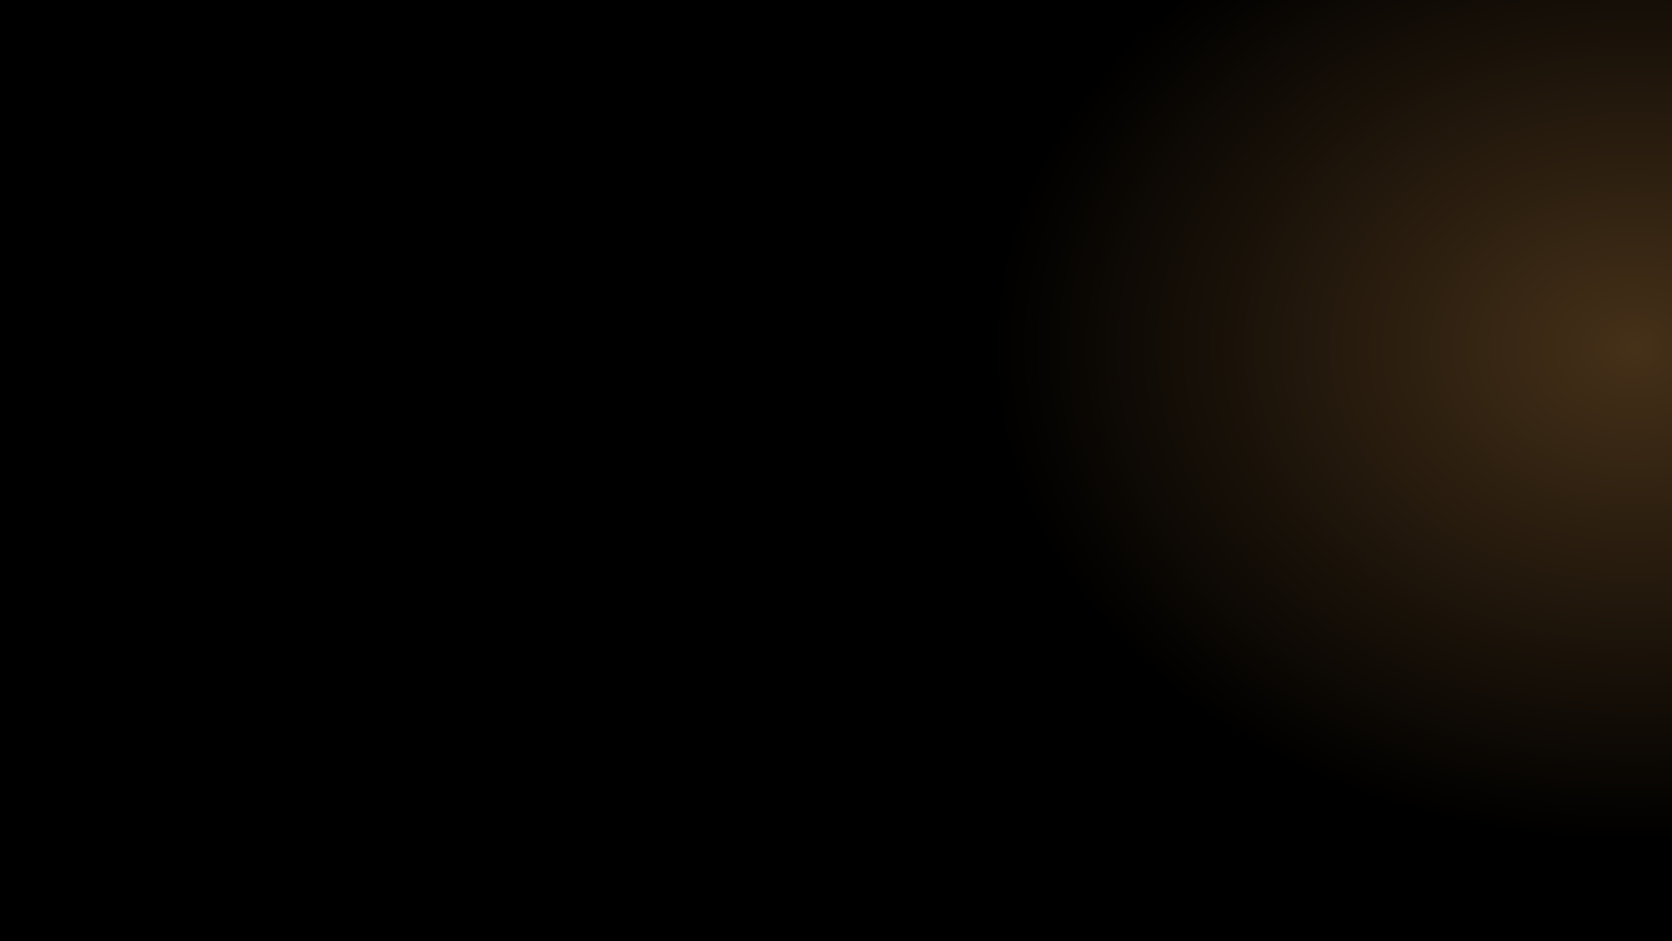
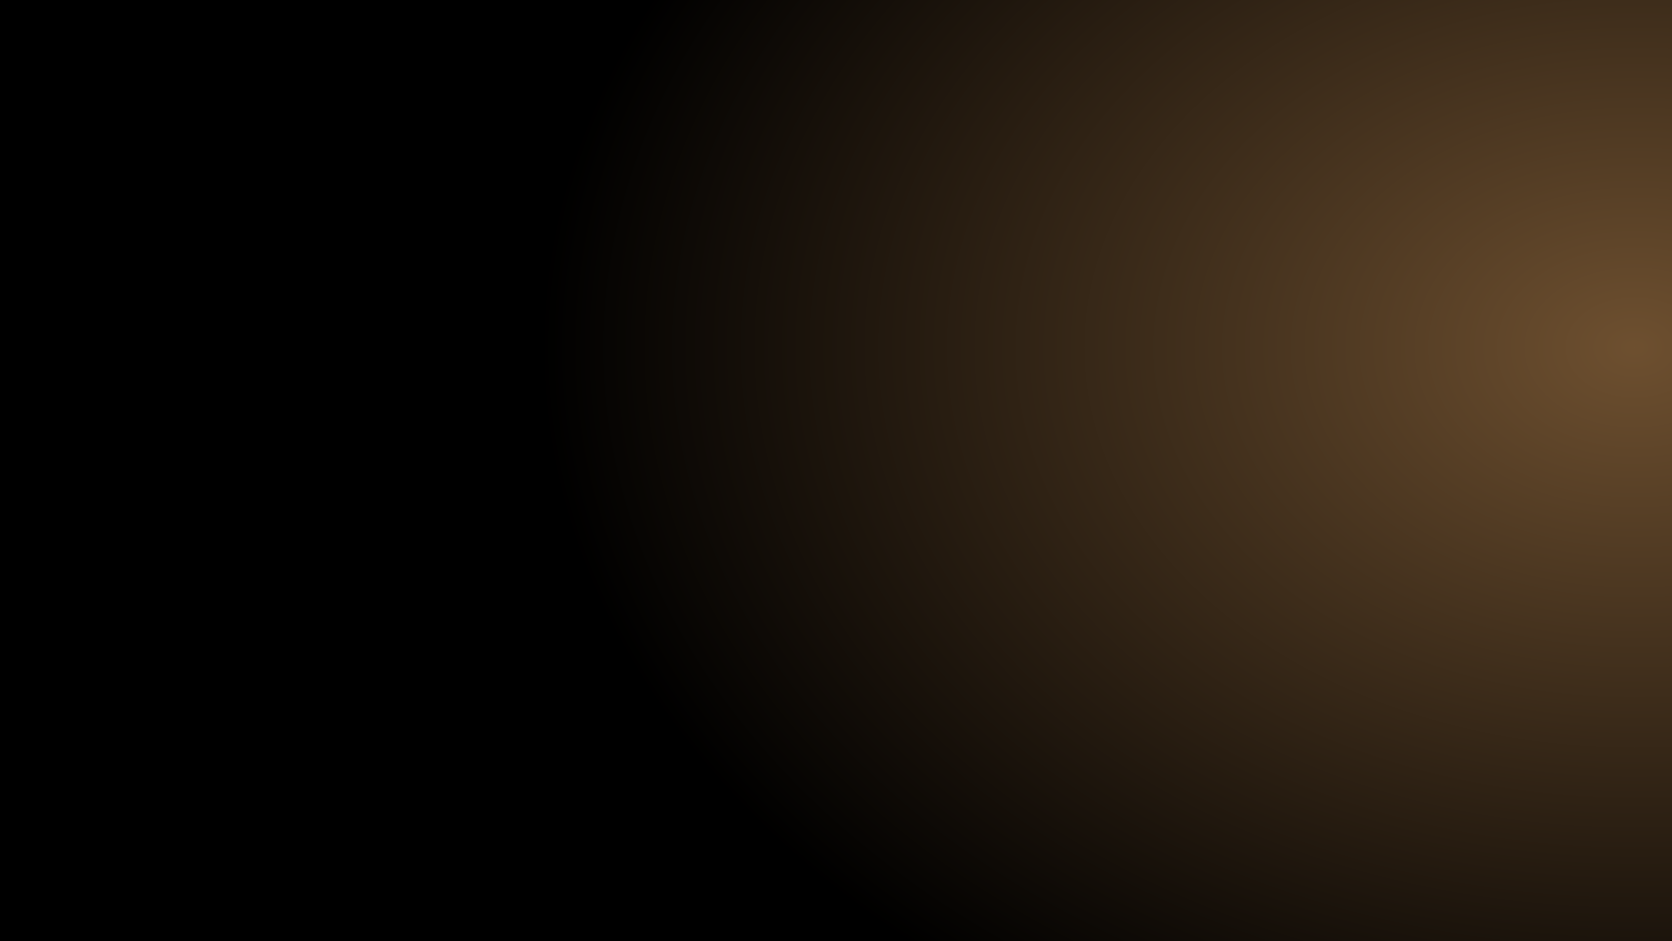
Allow full sill surface placement and extend interior lighting

diff --git a/src/experience/objectPhysics.ts b/src/experience/objectPhysics.ts
@@ -1,12 +1,12 @@
 export interface Body {x:number;y:number;vy:number;width:number;height:number}
-export interface Surface {id:string;left:number;right:number;y:number}
-/** Movable objects belong to the window and sill; shelves are decorative. */
-export const ROOM_SURFACES:Surface[]=[{id:'sill',left:235,right:1625,y:835}];
-export function dragPosition(x:number,y:number,width:number,height:number){return {x:Math.max(235,Math.min(1625-width,x)),y:Math.max(height+115,Math.min(835,y))}}
-export function supported(body:Body,s:Surface){return body.x+body.width*.13>=s.left&&body.x+body.width*.87<=s.right}
+export const SILL_BACK=775,SILL_FRONT=835;
+/** The sill widens towards the viewer; its rear edge follows the window opening. */
+export function sillBounds(y:number,width:number){const t=Math.max(0,Math.min(1,(y-SILL_BACK)/(SILL_FRONT-SILL_BACK)));return {left:235-165*t,right:1590+50*t-width}}
+export function dragPosition(x:number,y:number,width:number,height:number){const py=Math.max(height+115,Math.min(SILL_FRONT,y)),b=sillBounds(py,width);return {x:Math.max(b.left,Math.min(b.right,x)),y:py}}
+export function restingPosition(body:Body){const y=Math.max(SILL_BACK,Math.min(SILL_FRONT,body.y));return {...body,...dragPosition(body.x,y,body.width,body.height),vy:0}}
+/** Release over the window drops to the back; release on the tabletop preserves depth. */
 export function fallStep(body:Body,dt:number):Body{
+ const floor=Math.max(SILL_BACK,Math.min(SILL_FRONT,body.y));
  const t=Math.max(0,Math.min(.05,dt)),vy=Math.min(1100,body.vy+1500*t),next=body.y+vy*t;
- return {...body,y:Math.min(835,next),vy:next>=835?0:vy};
+ return {...body,y:Math.min(floor,next),vy:next>=floor?0:vy};
 }
-/** Restore old shelf positions on the sill and outside the decorative shelving. */
-export function restingPosition(body:Body){return {...body,...dragPosition(body.x,835,body.width,body.height),vy:0}}

diff --git a/tests/roomObjects.test.ts b/tests/roomObjects.test.ts
@@ -1,10 +1,10 @@
 import {describe,it,expect} from 'vitest';
 import {dragPosition,fallStep,restingPosition} from '../src/experience/objectPhysics';
-const body={x:300,y:150,vy:0,width:140,height:114};
-describe('window and sill objects',()=>{
- it('allows free lifting in the window, but excludes decorative shelves',()=>{expect(dragPosition(700,300,140,114)).toEqual({x:700,y:300});expect(dragPosition(72,260,140,114)).toEqual({x:235,y:260})});
- it('falls through all former shelf levels',()=>{let b={...body};for(let i=0;i<100;i++)b=fallStep(b,.05);expect(b.y).toBe(835);expect(b.vy).toBe(0)});
- it('migrates saved shelf positions onto the sill',()=>{expect(restingPosition({...body,x:72,y:432})).toEqual({...body,x:235,y:835,vy:0})});
- it('does not pass through the sill at high speed',()=>expect(fallStep({...body,y:830,vy:1100},.05).y).toBe(835));
- it('keeps a resting object still',()=>{const b={...body,y:835};expect(fallStep(b,.05)).toEqual(b)});
+const body={x:300,y:150,vy:0,width:220,height:179};
+describe('full sill surface',()=>{
+ it('keeps window dragging out of decorative shelving',()=>expect(dragPosition(72,300,220,179)).toEqual({x:235,y:300}));
+ it('preserves rear, middle and front placements',()=>{for(const y of [775,800,835])expect(restingPosition({...body,y}).y).toBe(y)});
+ it('lets an object fall from the window to the rear edge',()=>{let b={...body};for(let i=0;i<100;i++)b=fallStep(b,.05);expect(b.y).toBe(775);expect(b.vy).toBe(0)});
+ it('keeps each tabletop depth stable without sliding forward',()=>{for(const y of [775,800,835]){const b={...body,y};expect(fallStep(b,.05)).toEqual(b)}});
+ it('allows both full-width front corners while respecting the narrower back',()=>{expect(dragPosition(0,835,220,179).x).toBe(70);expect(dragPosition(2000,835,220,179).x).toBe(1420);expect(dragPosition(0,775,220,179).x).toBe(235)});
 });

diff --git a/src/engine/shaders.ts b/src/engine/shaders.ts
@@ -135,9 +135,9 @@ void main(){
   vec3 col=c.rgb*uTint;
   // Lamps illuminate the authored material; a smooth additive field alone erases its texture.
   vec3 direct=texture2D(uLeftLight,uv).rgb*controls.x+texture2D(uRightLight,uv).rgb*controls.y;
-  vec3 bounce=vec3(0.16,0.13,0.10)*max(controls.x,controls.y);
+  vec3 bounce=vec3(0.25,0.20,0.15)*max(controls.x,controls.y);
   bounce+=vec3(0.018,0.012,0.006)*controls.z;
-  col+=c.rgb*(direct*3.2+bounce);
+  col+=c.rgb*(direct*4.5+bounce);
   col+=vec3(1.0,0.72,0.42)*em.r*controls.x*0.35+vec3(1.0,0.62,0.28)*em.g*controls.y*0.3;
   vec2 pixel=floor(p)+0.5;
   float dial=step(uRadioDial.x,pixel.x)*step(pixel.x,uRadioDial.z)*step(uRadioDial.y,pixel.y)*step(pixel.y,uRadioDial.w);
@@ -281,8 +281,8 @@ void main(){
   float rib=slat<1.0?0.35:slat<3.0?1.15:0.78;
   float outside=pow(1.0-uShutterClosed,1.4)*(0.1+uExteriorAmbient*0.18);
   vec3 light=vec3(0.14,0.19,0.23)*outside;
-  light+=vec3(0.18,0.11,0.05)*uInterior.x*max(0.0,1.0-length((p-vec2(112.0,707.0))/vec2(550.0,350.0)));
-  light+=vec3(0.16,0.09,0.04)*uInterior.y*max(0.0,1.0-length((p-vec2(1575.0,350.0))/vec2(500.0,350.0)));
+  light+=vec3(0.18,0.11,0.05)*uInterior.x*max(0.0,1.0-length((p-vec2(112.0,707.0))/vec2(900.0,650.0)));
+  light+=vec3(0.16,0.09,0.04)*uInterior.y*max(0.0,1.0-length((p-vec2(1575.0,350.0))/vec2(1000.0,700.0)));
   light+=vec3(0.015,0.04,0.05)*uInterior.w*max(0.0,1.0-length((p-vec2(470.0,740.0))/vec2(350.0,250.0)));
   light+=vec3(0.025,0.018,0.008)*uInterior.z*max(0.0,1.0-length((p-vec2(1340.0,740.0))/vec2(300.0,200.0)));
   vec3 metal=texture2D(uSlatTexture,vec2(clamp((p.x-240.0)/1339.0,0.0,1.0),1.0-fract((p.y-uSlatTop)/78.0))).rgb;

diff --git a/src/experience/roomObjects.ts b/src/experience/roomObjects.ts
@@ -20,5 +20,5 @@ export async function mountRadio(host:HTMLElement,toggle:()=>void,tune:(directio
  button.onpointerup=e=>end(e);button.onpointercancel=e=>end(e,true);button.onlostpointercapture=e=>end(e as PointerEvent,true);
  button.onclick=e=>{if(e.detail===0)toggle()};
  let saved='',previous=performance.now();
- return {update(on:boolean,ambient:number,closed:number,panel:number,lamp:number=0){const now=performance.now();if(!start){position=fallStep(position,(now-previous)/1000);place();if(position.vy===0){const data=JSON.stringify({x:Math.round(position.x),y:Math.round(position.y)});if(data!==saved){try{localStorage.setItem(key,data)}catch{}saved=data}}}previous=now;button.setAttribute('aria-pressed',String(on));image.style.filter=`brightness(${Math.max(0.025,ambient*exteriorVisibility(closed)+panel*0.7+lamp*(0.16+Math.max(0,1-Math.hypot((position.x+W/2-112)/600,(position.y-707)/400))*.7))})`;dial.style.opacity=on?'1':'0'}};
+ return {update(on:boolean,ambient:number,closed:number,panel:number,lamp:number=0){const now=performance.now();if(!start){position=fallStep(position,(now-previous)/1000);place();if(position.vy===0){const data=JSON.stringify({x:Math.round(position.x),y:Math.round(position.y)});if(data!==saved){try{localStorage.setItem(key,data)}catch{}saved=data}}}previous=now;button.setAttribute('aria-pressed',String(on));image.style.filter=`brightness(${Math.max(0.025,ambient*exteriorVisibility(closed)+panel*0.9+lamp*(0.25+Math.max(0,1-Math.hypot((position.x+W/2-112)/1000,(position.y-707)/700))*.7))})`;dial.style.opacity=on?'1':'0'}};
 }

diff --git a/tools/prepare_room_v3.py b/tools/prepare_room_v3.py
@@ -25,7 +25,7 @@ shelf=Image.new('L',base.size)
 # Supplied half-disc is above the lamp. Reuse its lowest band for the shade's underside.
 shelf.paste(load('shelf-light-mask').convert('L').crop((74,648,150,653)),(74,700))
 em=Image.merge('RGB',(shelf,wall,Image.new('L',base.size)));em.save(OUT/'panel-emission.png')
-for name,cx,cy,rx,ry,color in [('shelf-light',112,707,340,290,(100,64,29)),('panel-light',1634,347,650,500,(70,49,25))]:
+for name,cx,cy,rx,ry,color in [('shelf-light',112,707,800,700,(135,90,45)),('panel-light',1634,347,1100,800,(110,80,48))]:
  im=Image.new('RGB',base.size);im.putdata([tuple(int(c*max(0,1-(((x-cx)/rx)**2+((y-cy)/ry)**2)**.5)) for c in color) for y in range(941) for x in range(1672)]);im.save(OUT/f'{name}.png')
 assert composite.getpixel((800,400))[3]==0
 assert tile.getchannel('A').getextrema()==(255,255)

diff --git a/journal.md b/journal.md
@@ -476,3 +476,8 @@
 ## 04.11.2026 · Размер радио
 
 По просьбе пользователя возвращена исходная ширина радио 220 px вместо 140 px. Пропорции и относительные зоны шкалы и ручки сохранены; сохранённая позиция ограничивается подоконником с учётом нового размера.
+
+## 05.11.2026 · Вся плоскость подоконника и усиленные лампы
+
+- Размещение сохраняет глубину на поверхности y775..835, а не сводит её к передней линии. Учтено расширение подоконника к зрителю; оба передних угла доступны. При отпускании над окном предмет падает на задний край.
+- Радиусы света лампы и панели увеличены до 800×700 и 1100×800 px; усилены прямой и отражённый свет материалов, освещение радио и роллета.
